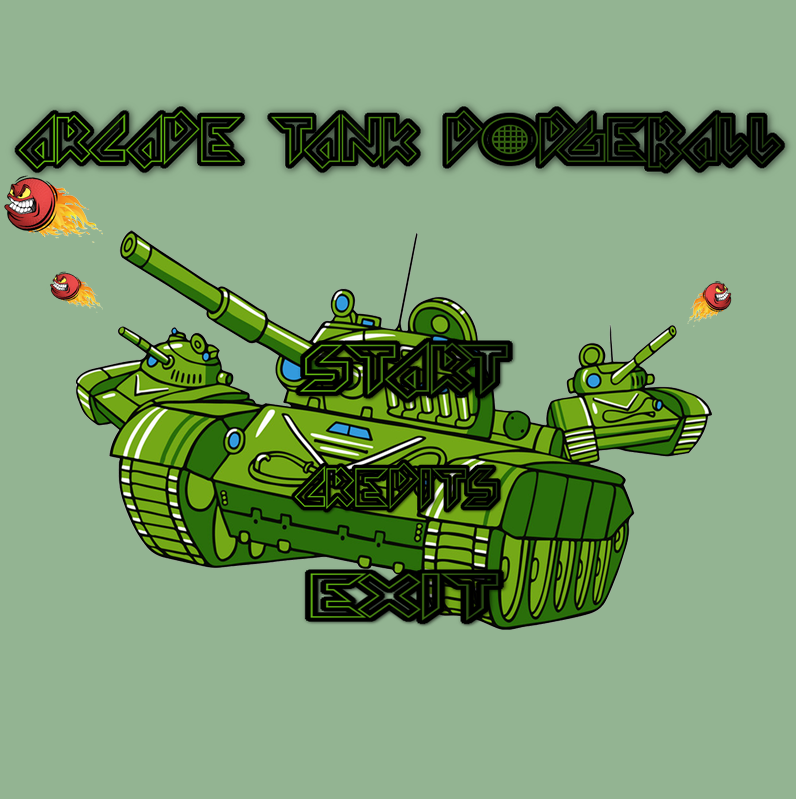
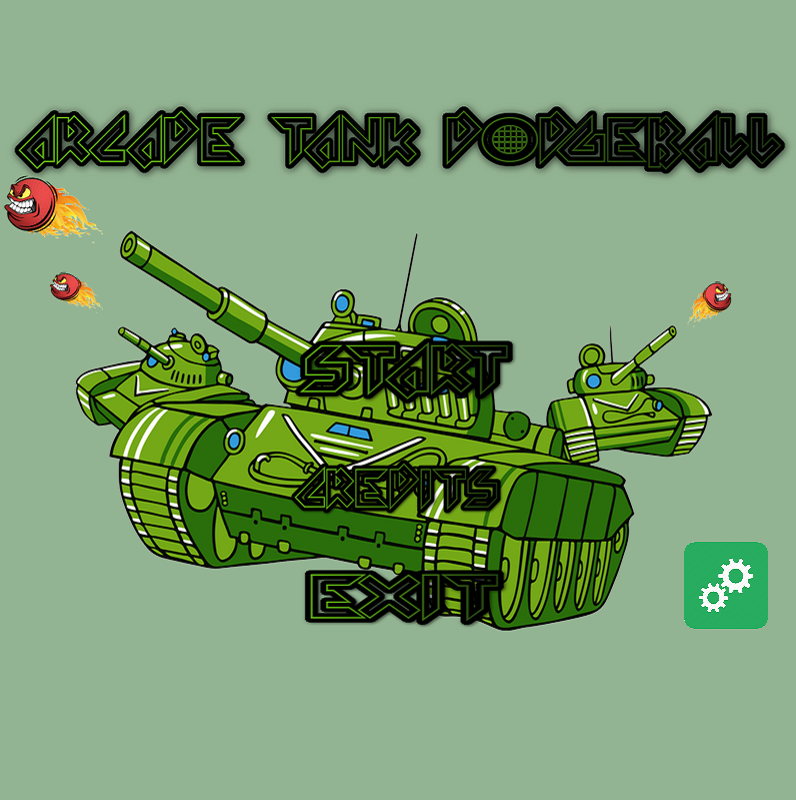
update 6.7

diff --git a/src/GUI/Settings_Panel.java b/src/GUI/Settings_Panel.java
@@ -1,0 +1,152 @@
+package GUI;
+
+import Utility.Resources;
+
+import javax.swing.*;
+import java.awt.*;
+import java.awt.event.MouseAdapter;
+import java.awt.event.MouseEvent;
+
+public class Settings_Panel extends JPanel {
+
+    private Image settings_panel_img;
+
+    private ATD_Frame frame;
+
+    private HotArea color_button_orange = new HotArea();
+
+    private HotArea color_button_pink = new HotArea();
+
+    private HotArea color_button_yellow = new HotArea();
+
+    private HotArea return_button = new HotArea();
+
+    private HotArea boundary_rect = new HotArea();
+
+
+
+    private static final int orange = 1;
+
+    private static final int pink = 2;
+
+    private static final int yellow = 3;
+
+    public int color = 1;
+
+
+    Settings_Panel(ATD_Frame pframe) {
+
+        frame = pframe;
+
+        this.setSize(800, 800);
+
+        this.addMouseListener(new MyMouseListener());
+
+        this.settings_panel_img = Resources.getImage("/Resources/Settings_Panel.png");
+
+        //Pulsante Colore Arancione
+        this.color_button_orange.x = 160; //Asse x
+        this.color_button_orange.y = 350; //Asse y
+        this.color_button_orange.width = 80; //Lunghezza
+        this.color_button_orange.height = 80; //Altezza
+
+        //Pulsante Colore Rosa
+        this.color_button_pink.x = 360; //Asse x
+        this.color_button_pink.y = 350; //Asse y
+        this.color_button_pink.width = 80; //Lunghezza
+        this.color_button_pink.height = 80; //Altezza
+
+        //Pulsante Colore Giallo
+        this.color_button_yellow.x = 560; //Asse x
+        this.color_button_yellow.y = 350; //Asse y
+        this.color_button_yellow.width = 80; //Lunghezza
+        this.color_button_yellow.height = 80; //Altezza
+
+        //Return Button
+        this.return_button.x = 230; //Asse x
+        this.return_button.y = 580; //Asse y
+        this.return_button.width = 350; //Lunghezza
+        this.return_button.height = 100; //Altezza
+
+        //Boundary rectangle
+        this.boundary_rect.x = 800; //Asse x
+        this.boundary_rect.y = 800; //Asse y
+        this.boundary_rect.width = 100; //Lunghezza
+        this.boundary_rect.height = 100; //Altezza
+
+
+    }
+
+    @Override
+    protected void paintComponent(Graphics g) {
+
+        g.drawImage(settings_panel_img, 0, 0, 800, 800, null);
+
+        g.setColor(Color.black);
+        //g.fillRect(0, 0, 800, 800);
+
+        g.fillRect(color_button_orange.x - 5 , color_button_orange.y - 5, color_button_orange.width + 10, color_button_orange.height + 10);
+        g.fillRect(color_button_pink.x - 5, color_button_pink.y - 5, color_button_pink.width + 10, color_button_pink.height + 10);
+        g.fillRect(color_button_yellow.x - 5, color_button_yellow.y - 5, color_button_yellow.width + 10, color_button_yellow.height + 10);
+
+        g.setColor(Color.white);
+        g.fillRect(boundary_rect.x, boundary_rect.y, boundary_rect.width, boundary_rect.height);
+
+        g.setColor(Color.orange);
+        g.fillRect(color_button_orange.x, color_button_orange.y, color_button_orange.width, color_button_orange.height);
+
+        g.setColor(Color.pink);
+        g.fillRect(color_button_pink.x, color_button_pink.y, color_button_pink.width, color_button_pink.height);
+
+        g.setColor(Color.yellow);
+        g.fillRect(color_button_yellow.x, color_button_yellow.y, color_button_yellow.width, color_button_yellow.height);
+
+
+       // g.setColor(Color.blue);
+        //g.fillRect(return_button.x, return_button.y, return_button.width, return_button.height);
+
+    }
+
+
+    private class MyMouseListener extends MouseAdapter {
+
+        @Override
+        public void mouseReleased(MouseEvent e) {
+
+            if (return_button.contains(e.getPoint())) {
+
+                frame.settings_panel.setVisible(false);
+                frame.start_panel.setVisible(true);
+                frame.start_panel.setFocusable(true);
+
+            }else {
+
+                if (color_button_orange.contains(e.getPoint())) {
+
+                    color = orange;
+                    boundary_rect.x = color_button_orange.x;
+                    boundary_rect.y = color_button_orange.y;
+                }
+
+                if (color_button_pink.contains(e.getPoint())) {
+
+                    color = pink;
+                    boundary_rect.x = color_button_pink.x;
+                    boundary_rect.y = color_button_pink.y;
+                }
+
+                if (color_button_yellow.contains(e.getPoint())) {
+
+                    color = yellow;
+                    boundary_rect.x = color_button_yellow.x;
+                    boundary_rect.y = color_button_yellow.y;
+                }
+
+                boundary_rect.x -= 10;
+                boundary_rect.y -= 10;
+            }
+
+            repaint();
+        }
+    }
+}

diff --git a/src/GUI/Credits_Panel.java b/src/GUI/Credits_Panel.java
@@ -4,22 +4,34 @@ import Utility.Resources;
 
 import javax.swing.*;
 import java.awt.*;
+import java.awt.event.MouseAdapter;
+import java.awt.event.MouseEvent;
 
 public class Credits_Panel extends JPanel {
 
 
     public Image credits_panel_img;
 
+    private ATD_Frame frame;
+
+    private HotArea return_button = new HotArea();
 
 
-    Credits_Panel(ATD_Frame frame){
+    Credits_Panel(ATD_Frame pframe) {
+
+        frame = pframe;
 
         this.setSize(800, 800);
 
         this.credits_panel_img = Resources.getImage("/Resources/Credits_Panel.png");
 
+        this.addMouseListener(new MyMouseListener());
 
-
+        //Return Button
+        this.return_button.x = 220; //Asse x
+        this.return_button.y = 570; //Asse y
+        this.return_button.width = 350; //Lunghezza
+        this.return_button.height = 90; //Altezza
 
 
     }
@@ -28,6 +40,26 @@ public class Credits_Panel extends JPanel {
     protected void paintComponent(Graphics g) {
 
         g.drawImage(credits_panel_img, 0, 0, 800, 800, null);
-        //cambiare immagine
+
+
+     //   g.setColor(Color.blue);
+       // g.fillRect(return_button.x, return_button.y, return_button.width, return_button.height);
+
+
+    }
+
+    private class MyMouseListener extends MouseAdapter {
+
+        @Override
+        public void mouseReleased(MouseEvent e) {
+
+            if (return_button.contains(e.getPoint())) {
+
+                frame.credits_panel.setVisible(false);
+                frame.start_panel.setVisible(true);
+                frame.start_panel.setFocusable(true);
+
+            }
+        }
     }
 }

diff --git a/src/GUI/Start_Panel.java b/src/GUI/Start_Panel.java
@@ -25,6 +25,9 @@ public class Start_Panel extends JPanel {
     //Pulsante Exit
     private HotArea exit_button = new HotArea();
 
+    //Pulsante Settings
+    private HotArea settings_button = new HotArea();
+
     private ATD_Frame frame;
 
     Start_Panel(ATD_Frame pframe){
@@ -53,6 +56,13 @@ public class Start_Panel extends JPanel {
         this.exit_button.width = 250; //Lunghezza
         this.exit_button.height = 70; //Altezza
 
+        //Pulsante Settings
+        this.settings_button.x = 690; //Asse x
+        this.settings_button.y = 540; //Asse y
+        this.settings_button.width = 80; //Lunghezza
+        this.settings_button.height = 90; //Altezza
+
+
         this.addMouseListener(new MyMouseListener());
 
         this.start_panel_img = Resources.getImage("/Resources/Start_Panel.png");
@@ -63,6 +73,8 @@ public class Start_Panel extends JPanel {
 
         g.setColor(Color.BLACK);
         g.drawImage(start_panel_img, 0, 0, 800, 800, null );
+       // g.drawRect(settings_button.x, settings_button.y, settings_button.width, settings_button.height);
+
     }
 
 
@@ -90,6 +102,13 @@ public class Start_Panel extends JPanel {
             if (exit_button.contains(e.getPoint())) {
 
                 System.exit(0);
+
+            }
+
+            if (settings_button.contains(e.getPoint())) {
+
+                frame.start_panel.setVisible(false);
+                frame.settings_panel.setVisible(true);
 
             }
         }

diff --git a/src/GUI/ATD_Frame.java b/src/GUI/ATD_Frame.java
@@ -13,6 +13,7 @@ public class ATD_Frame extends JFrame {
     Game_Panel game_panel;
     Active_Level active_level;
     Credits_Panel credits_panel;
+    Settings_Panel settings_panel;
 
     private boolean inGame = false;
 
@@ -31,22 +32,27 @@ public class ATD_Frame extends JFrame {
         game_panel = new Game_Panel(this);
         active_level = new Active_Level(this);
         credits_panel = new Credits_Panel(this);
+        settings_panel = new Settings_Panel(this);
 
         start_panel.setLocation(0, 0);
         game_panel.setLocation(0, 0);
         active_level.setLocation(0,0);
         credits_panel.setLocation(0, 0);
+        settings_panel.setLocation(0, 0);
+
 
         this.getContentPane().add(active_level);
         this.getContentPane().add(start_panel);
         this.getContentPane().add(game_panel);
         this.getContentPane().add(credits_panel);
+        this.getContentPane().add(settings_panel);
 
 
         start_panel.setVisible(true);
         game_panel.setVisible(false);
         active_level.setVisible(false);
         credits_panel.setVisible(false);
+        settings_panel.setVisible(false);
 
     }
 

diff --git a/src/GUI/Game_Panel.java b/src/GUI/Game_Panel.java
@@ -552,13 +552,18 @@ public class Game_Panel extends JPanel {
 
                 this.addKeyListener(new Keyboard_Input());
                 this.setSize(800, 800);
-                this.game_panel_img = Resources.getImage("/Resources/First_Level_Background.png");
+                //this.game_panel_img = Resources.getImage("/Resources/First_Level_Background.png");
 
                 charger = new Shot[charger_capacity];
 
                 chargerThread = new threadPlayerBullet[charger_capacity];
 
             }
+
+            this.game_panel_img = frame.active_level.levels[frame.active_level.activeLevel - 1].getlevel_img();
+
+            player.color = frame.settings_panel.color;
+            player.playerImageinit();
 
             playerisHitted = false;
 
@@ -586,6 +591,7 @@ public class Game_Panel extends JPanel {
             this.frame.inGame(false);
 
             if (lose){
+
                 restoreLevel();
 
                 JOptionPane.showMessageDialog(frame, "You lose, try again!");

diff --git a/src/Player/Player.java b/src/Player/Player.java
@@ -81,7 +81,7 @@ public class Player {
 
      if (color == 1){
 
-         colore = "_Green";
+         colore = "_Orange";
          this.tank_img = Resources.getImage("/Resources/Player_Tank_Level" + level + colore + "_img.png" );
 
      }
@@ -89,7 +89,7 @@ public class Player {
 
      if (color == 2){
 
-            colore = "_Red";
+            colore = "_Pink";
          this.tank_img = Resources.getImage("/Resources/Player_Tank_Level" + level + colore + "_img.png" );
 
      }
@@ -97,7 +97,7 @@ public class Player {
 
      if (color == 3){
 
-            colore = "_Blue";
+            colore = "_Yellow";
          this.tank_img = Resources.getImage("/Resources/Player_Tank_Level" + level + colore + "_img.png" );
 
      }

diff --git a/src/GUI/Level.java b/src/GUI/Level.java
@@ -1,6 +1,9 @@
 package GUI;
 
 import Enemies.Enemy;
+import Utility.Resources;
+
+import java.awt.*;
 
 public class Level {
 
@@ -13,12 +16,21 @@ public class Level {
 
     public Enemy[] enemies;
 
+    private Image level_image;
+
 
     public int getEnemies_number() {
 
         enemies_number = enemyLevel1_number + enemyLevel2_number + enemyLevel3_number;
 
         return enemies_number;
+    }
+
+    public Image getlevel_img() {
+
+        level_image =  Resources.getImage("/Resources/Level_" + gameLevel + "_Background.png");
+
+        return level_image;
     }
 }
 

diff --git a/src/GUI/Active_Level.java b/src/GUI/Active_Level.java
@@ -35,7 +35,6 @@ public class Active_Level extends JPanel {
 
         for (int i = 0; i < enemiesNumber; i++){
 
-
             g.drawImage(levels[gameLevel - 1].enemies[i].tank_img, levels[gameLevel - 1].enemies[i].x, levels[gameLevel - 1].enemies[i].y, levels[gameLevel - 1].enemies[i].width, levels[gameLevel - 1].enemies[i].height, null );
 
             for (int j = 0; j < levels[activeLevel - 1].enemies[i].charger_capacity; j++){
